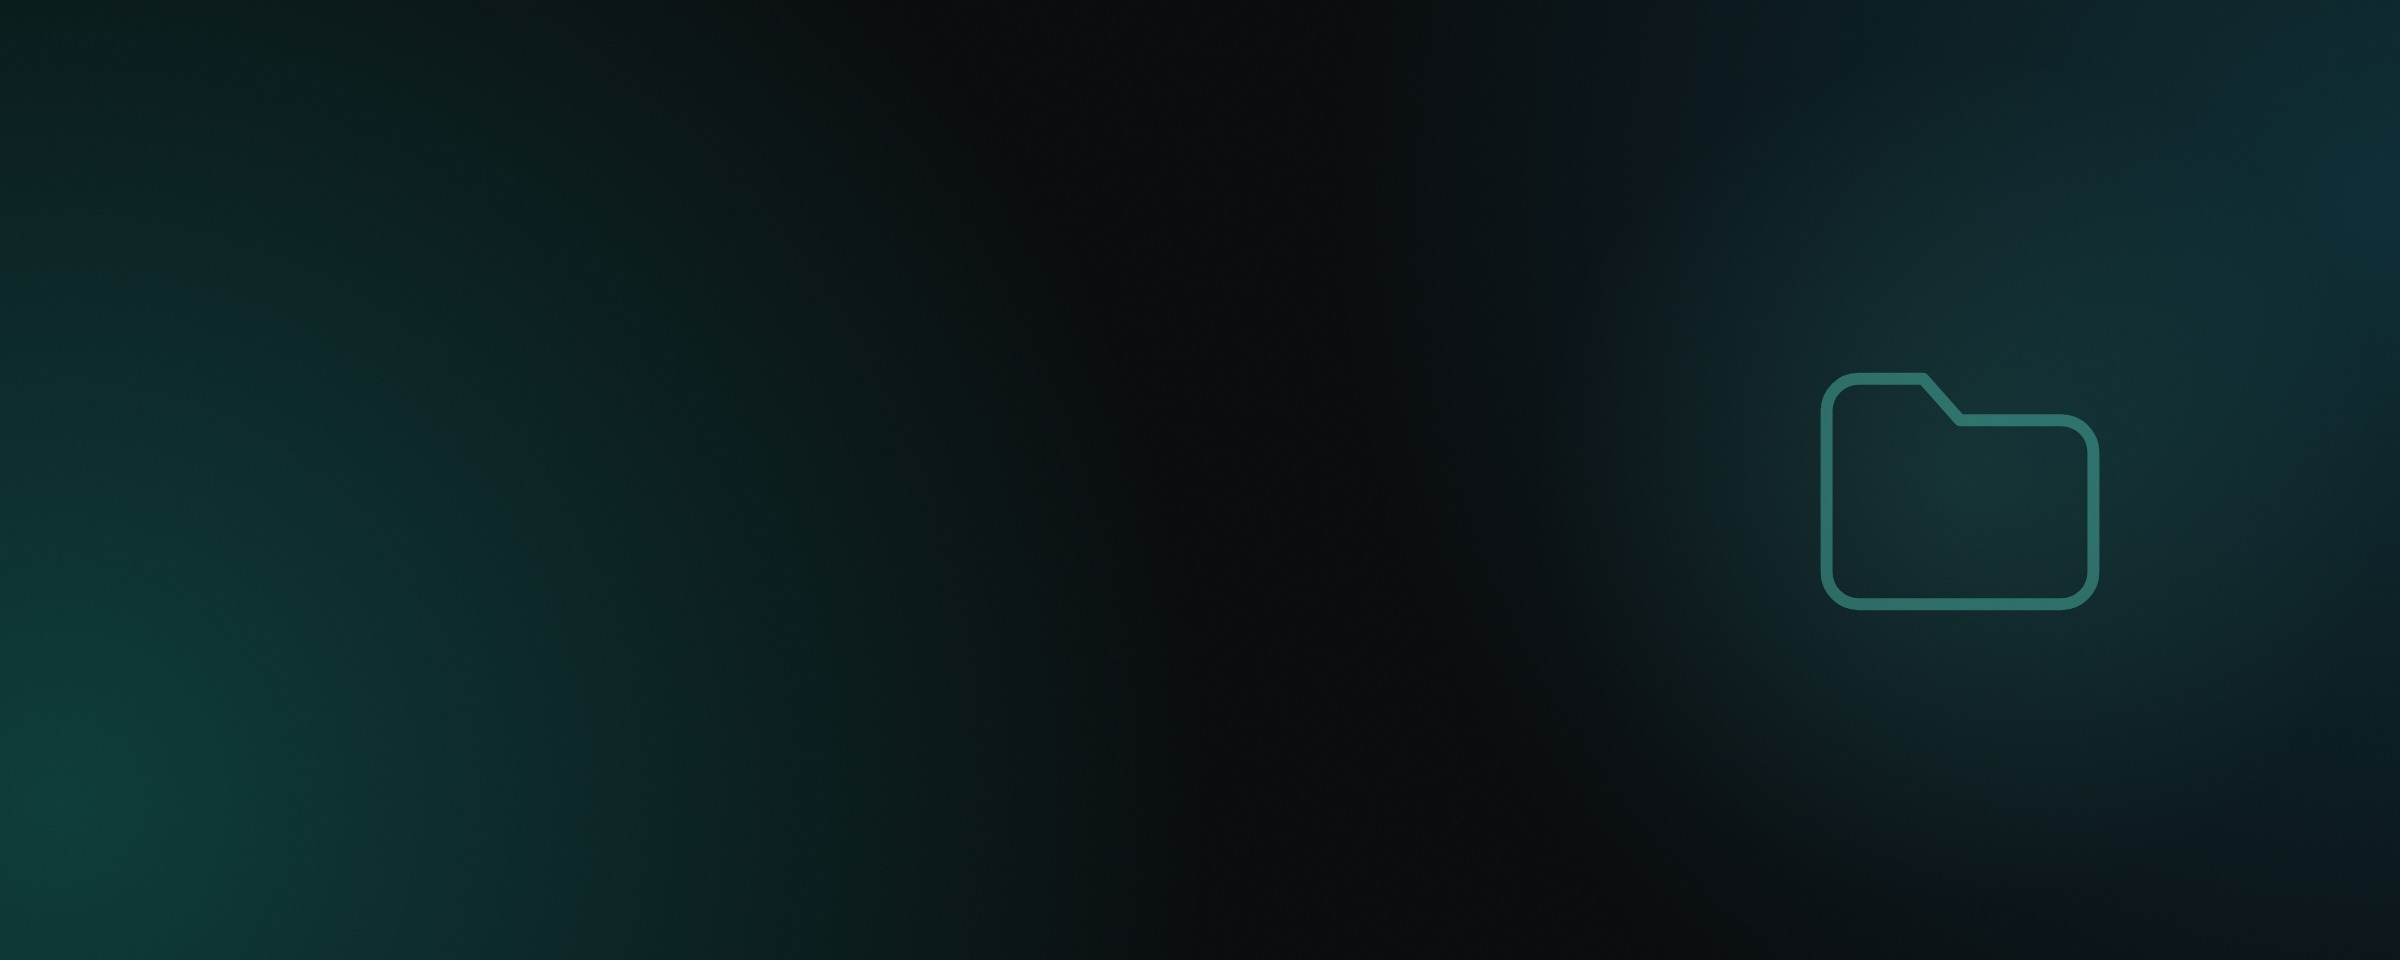
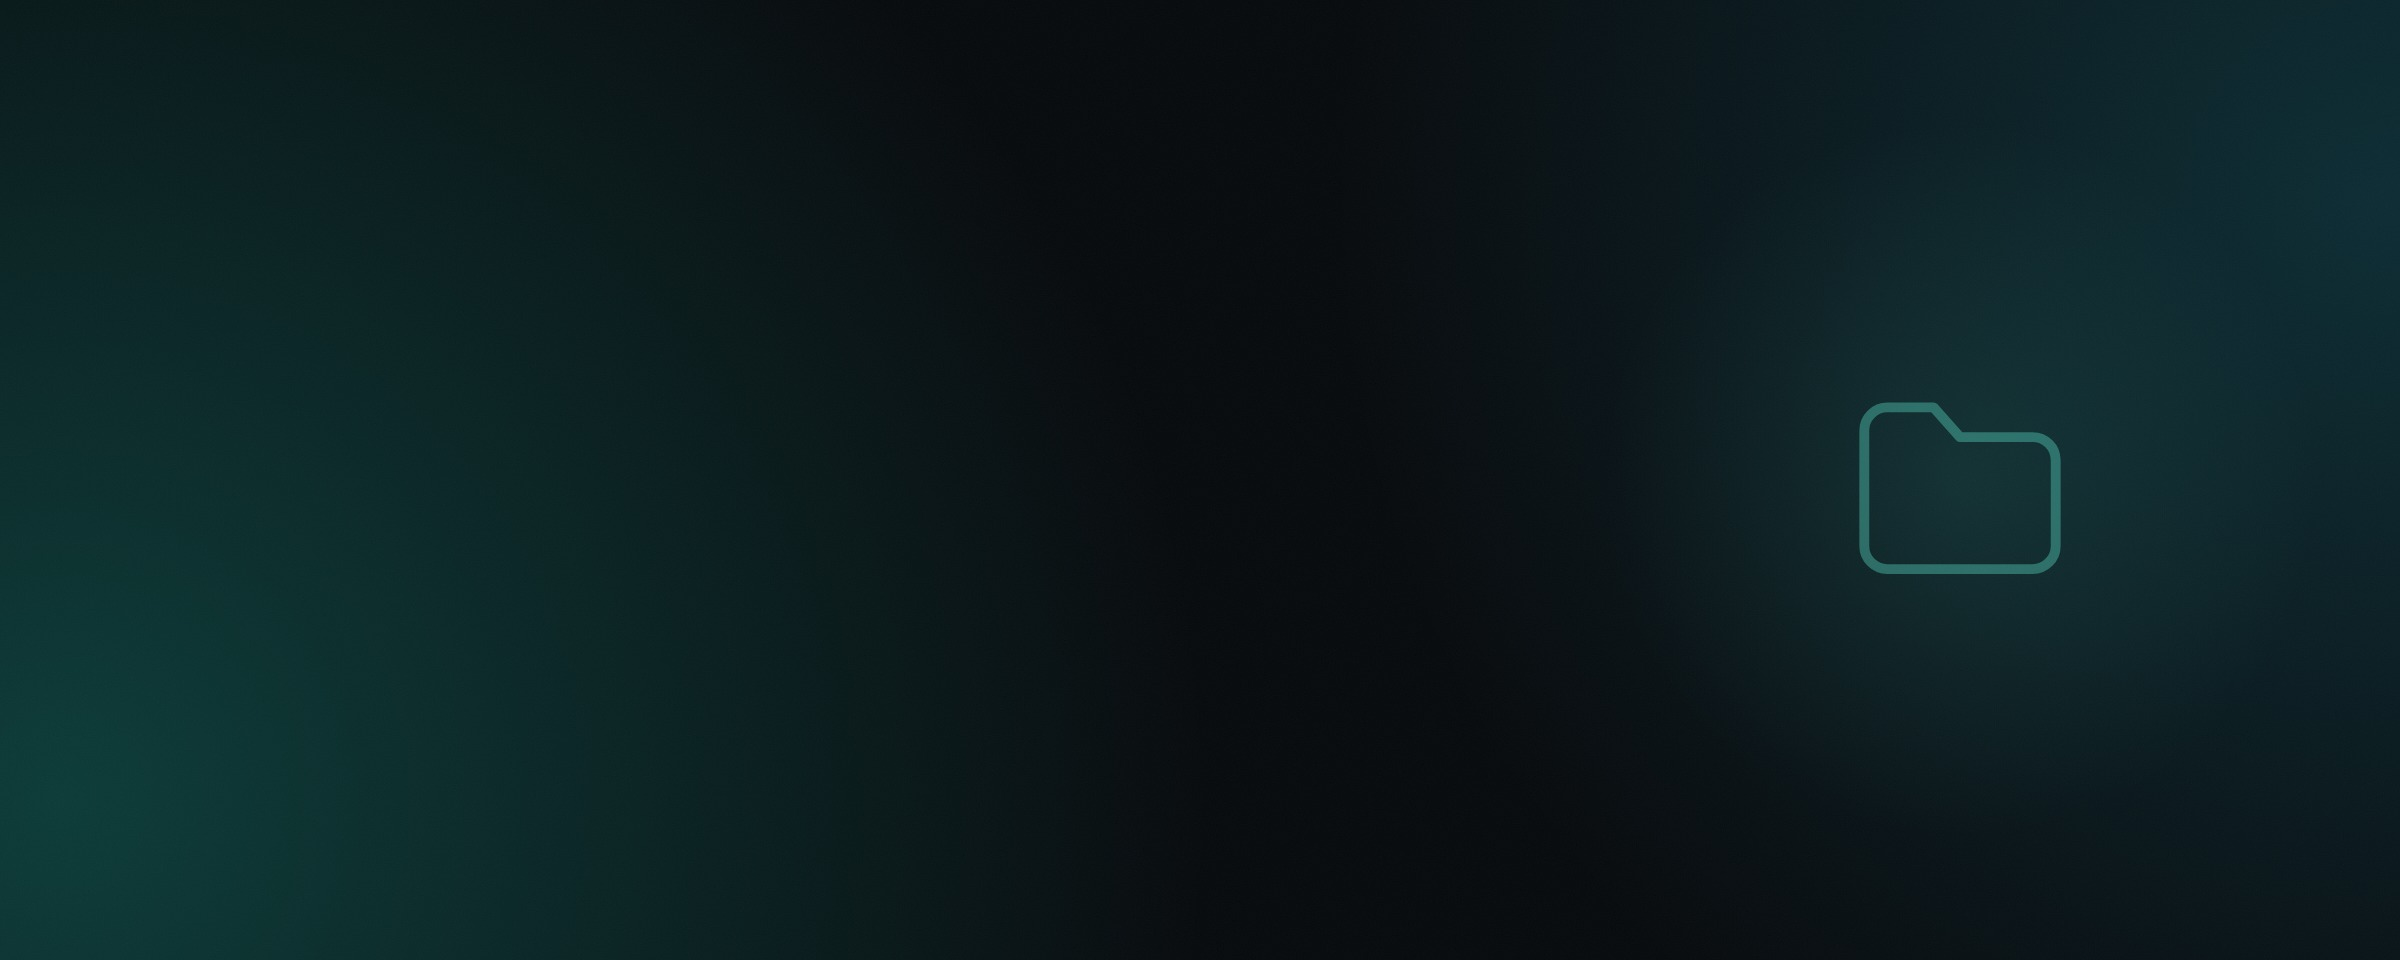
Copertine: segno più piccolo, sta tutto nel ritaglio di Notion
Claude-Session: https://claude.ai/code/session_01K4uzyoMnxUYW6TjGsMzH2U

Changed region(s): [[0.75, 0.375, 0.875, 0.6562]]

diff --git a/README.md b/README.md
@@ -38,7 +38,7 @@ Regole del disegno:
 
 - tela 2400 x 960, fondo `#04070a` con due aloni, verde acqua in basso a sinistra e ciano in alto a destra;
 - il segno dell'icona della pagina ripreso in grande sulla destra, tratto sottile, al 36%;
-- Notion su computer mostra solo la fascia centrale, circa il 40% dell'altezza: il segno sta tutto lì dentro;
+- Notion su computer mostra solo la fascia centrale, meno del 30% dell'altezza: il segno è alto circa il 21% e ci sta tutto;
 - niente testo.
 
 ## Colori
